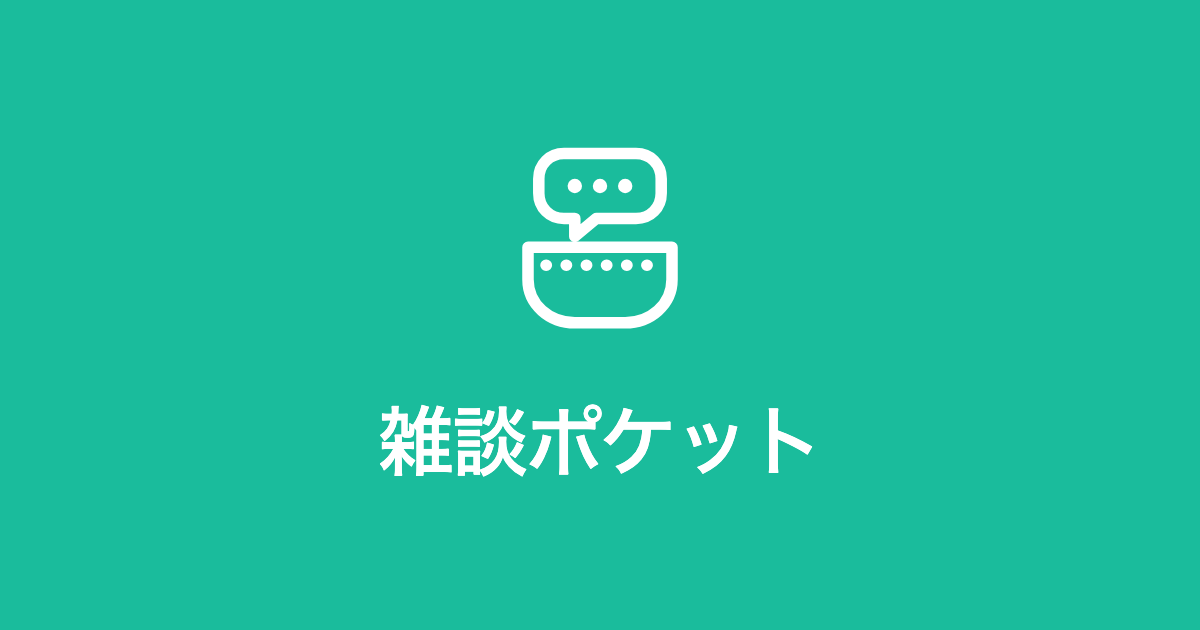
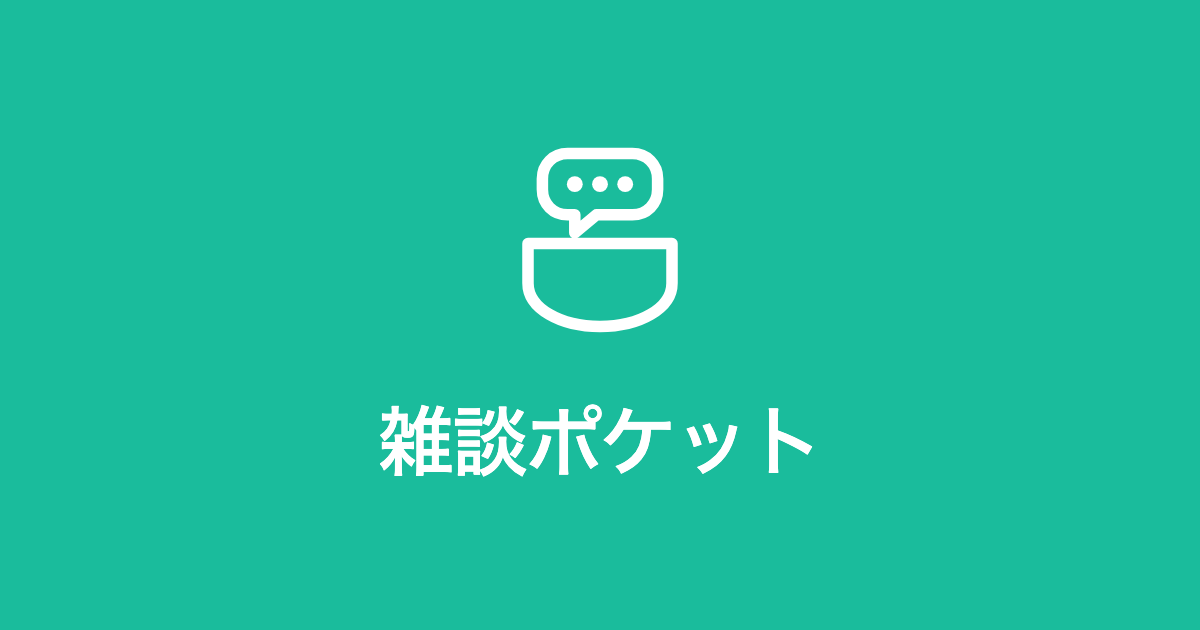
style: アプリアイコンをシンプルな吹き出し＋丸いポケットに変更

Changed region(s): [[0.4317, 0.2413, 0.555, 0.4524], [0.4317, 0.4825, 0.555, 0.5429]]

diff --git a/index.html b/index.html
@@ -27,7 +27,7 @@
   <!-- ログイン画面 -->
   <div id="login-screen" class="login-screen">
     <div class="login-card">
-      <span class="login-card__logo"><svg width="64" height="64" viewBox="0 0 64 64" fill="none" stroke="currentColor" stroke-width="3.2" stroke-linecap="round" stroke-linejoin="round" aria-hidden="true"><path d="M22 8 H42 C46 8 49 11 49 15 V19 C49 23 46 26 42 26 H31 L25 31 V26 H22 C18 26 15 23 15 19 V15 C15 11 18 8 22 8 Z"/><circle cx="25" cy="17" r="2" fill="currentColor" stroke="none"/><circle cx="32" cy="17" r="2" fill="currentColor" stroke="none"/><circle cx="39" cy="17" r="2" fill="currentColor" stroke="none"/><path d="M12 34 H52 V43 C52 50 46 55 39 55 H25 C18 55 12 50 12 43 Z"/><path d="M17 39 H47" stroke-dasharray="0.1 5.5"/></svg></span>
+      <span class="login-card__logo"><svg width="64" height="64" viewBox="0 0 64 64" fill="none" stroke="currentColor" stroke-width="3.2" stroke-linecap="round" stroke-linejoin="round" aria-hidden="true"><path d="M23 8 H41 C45 8 48 11 48 15 V18 C48 22 45 25 41 25 H31 L25 30 V25 H23 C19 25 16 22 16 18 V15 C16 11 19 8 23 8 Z"/><circle cx="25" cy="16.5" r="2.2" fill="currentColor" stroke="none"/><circle cx="32" cy="16.5" r="2.2" fill="currentColor" stroke="none"/><circle cx="39" cy="16.5" r="2.2" fill="currentColor" stroke="none"/><path d="M12 33 H52 V44 C52 51 43 56 32 56 C21 56 12 51 12 44 Z"/></svg></span>
       <h1 class="login-card__title">雑談ポケット</h1>
       <p class="login-card__tagline">話のネタと、相手ごとの「気をつけること」を<br>ポケットに入れておこう。</p>
       <button id="btn-google-login" class="google-btn">
@@ -44,7 +44,7 @@
 
   <div id="app" class="hidden">
     <header class="app-header">
-      <span class="app-header__brand"><svg width="28" height="28" viewBox="0 0 64 64" fill="none" stroke="currentColor" stroke-width="3.2" stroke-linecap="round" stroke-linejoin="round" aria-hidden="true" style="vertical-align:-7px"><path d="M22 8 H42 C46 8 49 11 49 15 V19 C49 23 46 26 42 26 H31 L25 31 V26 H22 C18 26 15 23 15 19 V15 C15 11 18 8 22 8 Z"/><circle cx="25" cy="17" r="2" fill="currentColor" stroke="none"/><circle cx="32" cy="17" r="2" fill="currentColor" stroke="none"/><circle cx="39" cy="17" r="2" fill="currentColor" stroke="none"/><path d="M12 34 H52 V43 C52 50 46 55 39 55 H25 C18 55 12 50 12 43 Z"/><path d="M17 39 H47" stroke-dasharray="0.1 5.5"/></svg> 雑談ポケット</span>
+      <span class="app-header__brand"><svg width="28" height="28" viewBox="0 0 64 64" fill="none" stroke="currentColor" stroke-width="3.2" stroke-linecap="round" stroke-linejoin="round" aria-hidden="true" style="vertical-align:-7px"><path d="M23 8 H41 C45 8 48 11 48 15 V18 C48 22 45 25 41 25 H31 L25 30 V25 H23 C19 25 16 22 16 18 V15 C16 11 19 8 23 8 Z"/><circle cx="25" cy="16.5" r="2.2" fill="currentColor" stroke="none"/><circle cx="32" cy="16.5" r="2.2" fill="currentColor" stroke="none"/><circle cx="39" cy="16.5" r="2.2" fill="currentColor" stroke="none"/><path d="M12 33 H52 V44 C52 51 43 56 32 56 C21 56 12 51 12 44 Z"/></svg> 雑談ポケット</span>
       <nav class="app-header__nav">
         <a href="about.html" class="app-header__about-link">アプリについて</a>
         <div id="user-info" class="app-header__user hidden">
@@ -103,7 +103,7 @@
         <ul id="neta-list" class="neta-list"></ul>
 
         <div id="neta-empty-first" class="empty-state empty-state--first card-surface hidden">
-          <span class="empty-state__icon"><svg width="56" height="56" viewBox="0 0 64 64" fill="none" stroke="currentColor" stroke-width="3.2" stroke-linecap="round" stroke-linejoin="round" aria-hidden="true"><path d="M22 8 H42 C46 8 49 11 49 15 V19 C49 23 46 26 42 26 H31 L25 31 V26 H22 C18 26 15 23 15 19 V15 C15 11 18 8 22 8 Z"/><circle cx="25" cy="17" r="2" fill="currentColor" stroke="none"/><circle cx="32" cy="17" r="2" fill="currentColor" stroke="none"/><circle cx="39" cy="17" r="2" fill="currentColor" stroke="none"/><path d="M12 34 H52 V43 C52 50 46 55 39 55 H25 C18 55 12 50 12 43 Z"/><path d="M17 39 H47" stroke-dasharray="0.1 5.5"/></svg></span>
+          <span class="empty-state__icon"><svg width="56" height="56" viewBox="0 0 64 64" fill="none" stroke="currentColor" stroke-width="3.2" stroke-linecap="round" stroke-linejoin="round" aria-hidden="true"><path d="M23 8 H41 C45 8 48 11 48 15 V18 C48 22 45 25 41 25 H31 L25 30 V25 H23 C19 25 16 22 16 18 V15 C16 11 19 8 23 8 Z"/><circle cx="25" cy="16.5" r="2.2" fill="currentColor" stroke="none"/><circle cx="32" cy="16.5" r="2.2" fill="currentColor" stroke="none"/><circle cx="39" cy="16.5" r="2.2" fill="currentColor" stroke="none"/><path d="M12 33 H52 V44 C52 51 43 56 32 56 C21 56 12 51 12 44 Z"/></svg></span>
           <p class="empty-state__title">話のネタをストックしましょう</p>
           <p>「これ話したい！」と思ったことを、<br>忘れないうちにポケットへ。</p>
           <div class="empty-state__actions">

diff --git a/about.html b/about.html
@@ -229,7 +229,7 @@
 
   <section class="hero">
     <span class="category-pill">暮らし</span>
-    <div class="badge"><svg width="72" height="72" viewBox="0 0 64 64" fill="none" stroke="currentColor" stroke-width="3.2" stroke-linecap="round" stroke-linejoin="round"><path d="M22 8 H42 C46 8 49 11 49 15 V19 C49 23 46 26 42 26 H31 L25 31 V26 H22 C18 26 15 23 15 19 V15 C15 11 18 8 22 8 Z"/><circle cx="25" cy="17" r="2" fill="currentColor" stroke="none"/><circle cx="32" cy="17" r="2" fill="currentColor" stroke="none"/><circle cx="39" cy="17" r="2" fill="currentColor" stroke="none"/><path d="M12 34 H52 V43 C52 50 46 55 39 55 H25 C18 55 12 50 12 43 Z"/><path d="M17 39 H47" stroke-dasharray="0.1 5.5"/></svg></div>
+    <div class="badge"><svg width="72" height="72" viewBox="0 0 64 64" fill="none" stroke="currentColor" stroke-width="3.2" stroke-linecap="round" stroke-linejoin="round"><path d="M23 8 H41 C45 8 48 11 48 15 V18 C48 22 45 25 41 25 H31 L25 30 V25 H23 C19 25 16 22 16 18 V15 C16 11 19 8 23 8 Z"/><circle cx="25" cy="16.5" r="2.2" fill="currentColor" stroke="none"/><circle cx="32" cy="16.5" r="2.2" fill="currentColor" stroke="none"/><circle cx="39" cy="16.5" r="2.2" fill="currentColor" stroke="none"/><path d="M12 33 H52 V44 C52 51 43 56 32 56 C21 56 12 51 12 44 Z"/></svg></div>
     <h1>雑談ポケット</h1>
     <p class="tagline">話のネタと、相手ごとの「気をつけること」、コミュニケーションで大切なことをポケットに。会う前にさっと見返して、人づきあいをもっと楽しくする小さなメモアプリです。</p>
     <a class="cta" href="https://zatsudan-pocket.vercel.app">アプリを使ってみる →</a>
